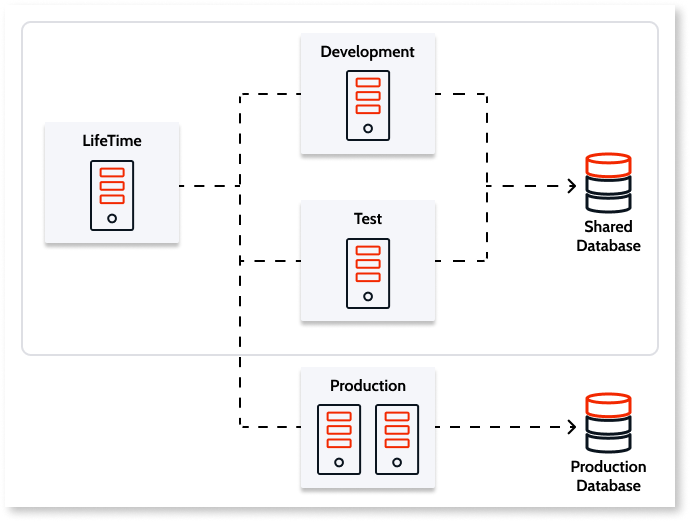
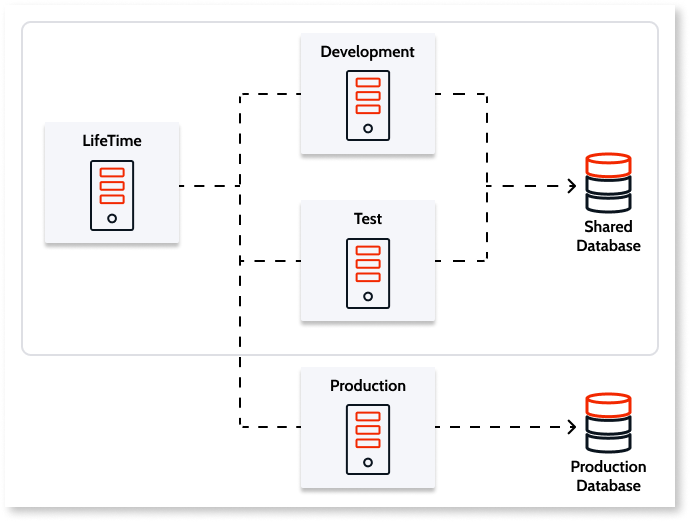
Fixed Basic infra example to have only one FE.

Changed region(s): [[0.4565, 0.7663, 0.6087, 0.9195]]

diff --git a/src/enterprise/infra-architecture/intro.md b/src/enterprise/infra-architecture/intro.md
@@ -182,12 +182,12 @@ For this setup, the following underlying servers are provisioned:
 * A shared database server or instance that carries all the catalogs for the LifeTime, Development and Test environments.
 * A dedicated database server for the Production environment.
 
-**Five front end servers:**
+**Four front end servers:**
 
 * 1 for LifeTime
 * 1 for Development
 * 1 for Test
-* 2 for Production that are behind a load balancer
+* 1 for Production
 
 #### Standard edition infrastructure
 
